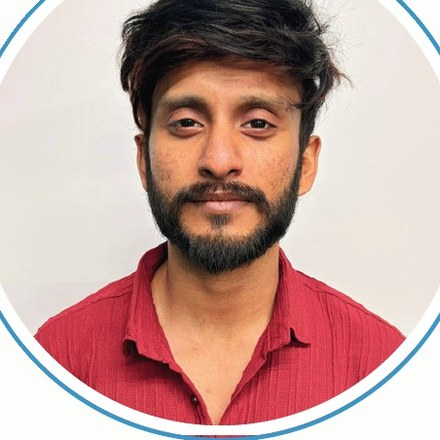
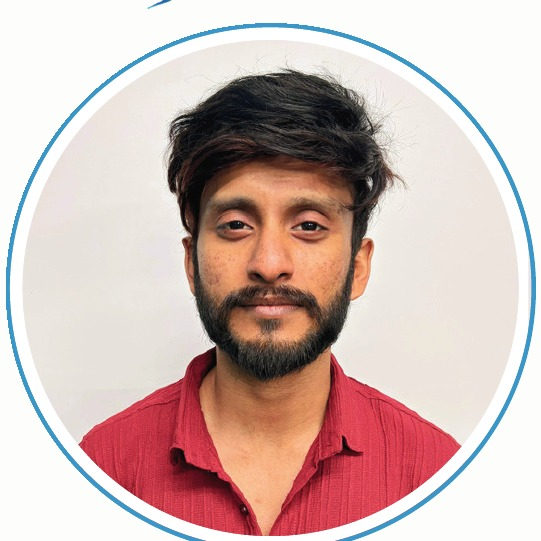
Use higher-res team photos from our team 2.zip; drop crop shift hack

diff --git a/src/components/site/fd-team.tsx b/src/components/site/fd-team.tsx
@@ -44,7 +44,7 @@ export function FutureDreamsTeam() {
                   src={member.photo}
                   alt={`Portrait of ${member.name}`}
                   loading="lazy"
-                  className="size-full object-cover translate-y-[5%] scale-[1.15]"
+                  className="size-full object-cover"
                 />
               </div>
               <span aria-hidden="true" className="mt-6 h-px w-8 bg-primary/70" />

diff --git a/src/components/site/our-team.tsx b/src/components/site/our-team.tsx
@@ -57,7 +57,7 @@ export function OurTeamSection() {
                   src={member.photo}
                   alt={`Portrait of ${member.name}`}
                   loading="lazy"
-                  className="size-full object-cover translate-y-[5%] scale-[1.15]"
+                  className="size-full object-cover"
                 />
               </div>
               <span aria-hidden="true" className="mt-6 h-px w-8 bg-primary/70" />
